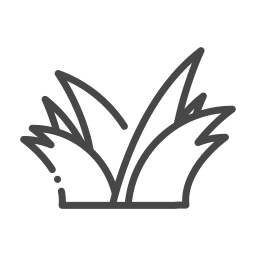
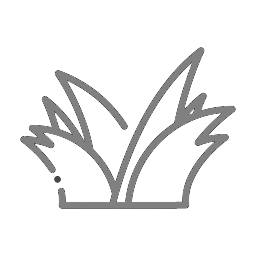
oui tkt bro

Changed region(s): [[0.0625, 0.1875, 0.9375, 0.8438]]

diff --git a/app/(tabs)/_layout.tsx b/app/(tabs)/_layout.tsx
@@ -52,8 +52,8 @@ export default function TabLayout() {
                         <Image
                             source={
                                 focused
-                                    ? require("../../assets/pokedex_active.png")
-                                    : require("../../assets/pokedex.png")
+                                    ? require("../../assets/grass_active.png")
+                                    : require("../../assets/grass.png")
                             }
                             style={{ width: 24, height: 24 }}
                         />
